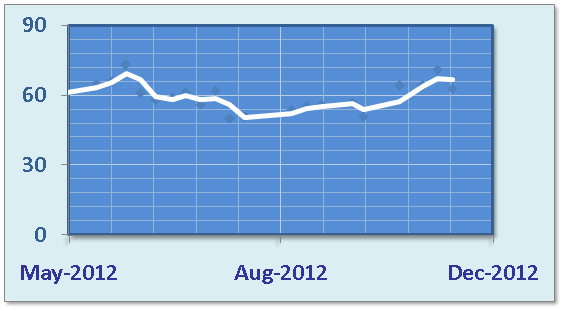
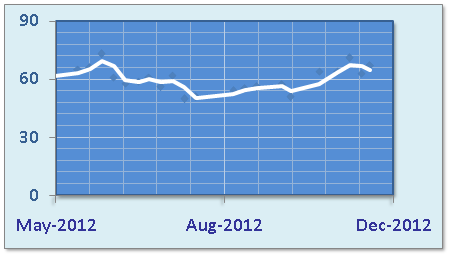
Fixed image embedding problem

Changed region(s): [[0.0, 0.0, 0.9956, 0.9688], [0.7778, 0.8438, 0.9644, 0.9062], [0.4044, 0.8438, 0.5911, 0.9062]]

diff --git a/app/view/MainListContainer.js b/app/view/MainListContainer.js
@@ -63,8 +63,11 @@ Ext.define("itsm.view.MainListContainer", {
 		};
 
 		var itsmOverview = {
-//			xtype: 'itsmoverview',
-/* <<< */
+			xtype: 'itsmoverview',
+			listeners: {
+				activeitemchange: { fn: this.onCarouseItemChange, scope: this }
+			},
+/* <<<  
 			xtype: 'carousel',
 			defaults: {
 				styleHtmlContent: true
@@ -92,7 +95,7 @@ Ext.define("itsm.view.MainListContainer", {
 					style: 'background-color: #5AB5F5; border: 4px; border-radius: 12px; border-shadow: 7px 7px 7px blue;'
 				}
 			],
-/* >>> */
+>>> */
 			flex: "2.3"
 		};
 
@@ -119,15 +122,16 @@ Ext.define("itsm.view.MainListContainer", {
 
 		console.log("view.mainListContainer.initialize event leaving");
    },
+// >>>
 
 	initImages: function(obj,opts) {
 		console.log("view.mainListContainer.painted event fired");
 		this.fireEvent('initImageCommand', obj, opts);
 	},	
 
-	onCarouseItemChange: function() {
-		console.log("view.mainListContainer.carousel.itemChange event fired");
-		this.initImages();
+	onCarouseItemChange: function( obj, opts ) {
+		console.log("view.carousel.itemChange event fired");
+		this.fireEvent('initImageCommand', obj, opts);
 	},
 
 	onNotesListDisclose: function (list, record, target, index, evt, options) {

diff --git a/app/view/itsmOverview.js b/app/view/itsmOverview.js
@@ -1,21 +1,26 @@
 Ext.define("itsm.view.itsmOverview", {
-	extend: 'Ext.Container',
-	requires: [
-		'Ext.carousel.Carousel'
-	],
+	extend: 'Ext.carousel.Carousel',
 	alias: 'widget.itsmoverview',
-	confing: {
-		xtype: 'carousel',
+	config: {
 		items: [
 			{
-				html: "<img src='resources/images/otcs-6m.png' width='284px'/>"
+				html: "<img src='resources/images/otcs-6m.png' width='100%'/>"
+//				html: "<div id='otcs-image-container-6m'></div>"
 			},
 			{
-				html: "<img src='resources/images/otcs-1y.png' width='284px'/>"
+				html: "<img src='resources/images/otcs-1y.png' width='100%'/>"
+//				html: "<div id='otcs-image-container-1y'></div>"
 			},
 			{
-				html: "<img src='resources/images/otcs-5y.png' width='284px'/>"
+				html: "<img src='resources/images/otcs-5y.png' width='100%'/>"
+//				html: "<div id='otcs-image-container-5y'></div>"
+			},
+			{
+//				html: "<img src='resources/images/otcs-5y.png' width='100%'/>",
+				xtype: 'aboutscreen',
+//				store: Ext.getStore("aboutInfo"),
+				style: 'background-color: #5AB5F5; border: 4px; border-radius: 12px; border-shadow: 7px 7px 7px blue;'
 			}
-		],
+		]
 	}
 });

diff --git a/app/controller/itsm.js b/app/controller/itsm.js
@@ -20,6 +20,7 @@ Ext.define("itsm.controller.itsm", {
 				itsmDetail: "itsmdetail",
 				configurationView: "configurationview",
 				searchForm: "searchform",
+				itsmOverview: "itsmoverview"
 		},
 		control: {
 				mainListContainer: {
@@ -39,6 +40,9 @@ Ext.define("itsm.controller.itsm", {
 				},
 				searchForm: {
 					searchCaseCommand: 'onSearchCase'
+				},
+				itsmOverview: {
+					initImageCommand: "onInitImages"
 				}
 		}
 	},
@@ -108,7 +112,14 @@ Ext.define("itsm.controller.itsm", {
 	},
 	// >>>
 
+
 	onInitImages: function(obj, opts) 
+/* This method is a poor man initiative to injets the Images
+ * that have the right dimentions. The IMG tah is dynamicaly 
+ * injected after the rendering the carousel container and 
+ * getting the available size. That is all obsoleted by using
+ * the tag IMG directly with the tag width=100%. 
+ */
 	{ // <<<
 //		debugger;
 		var iterator;
